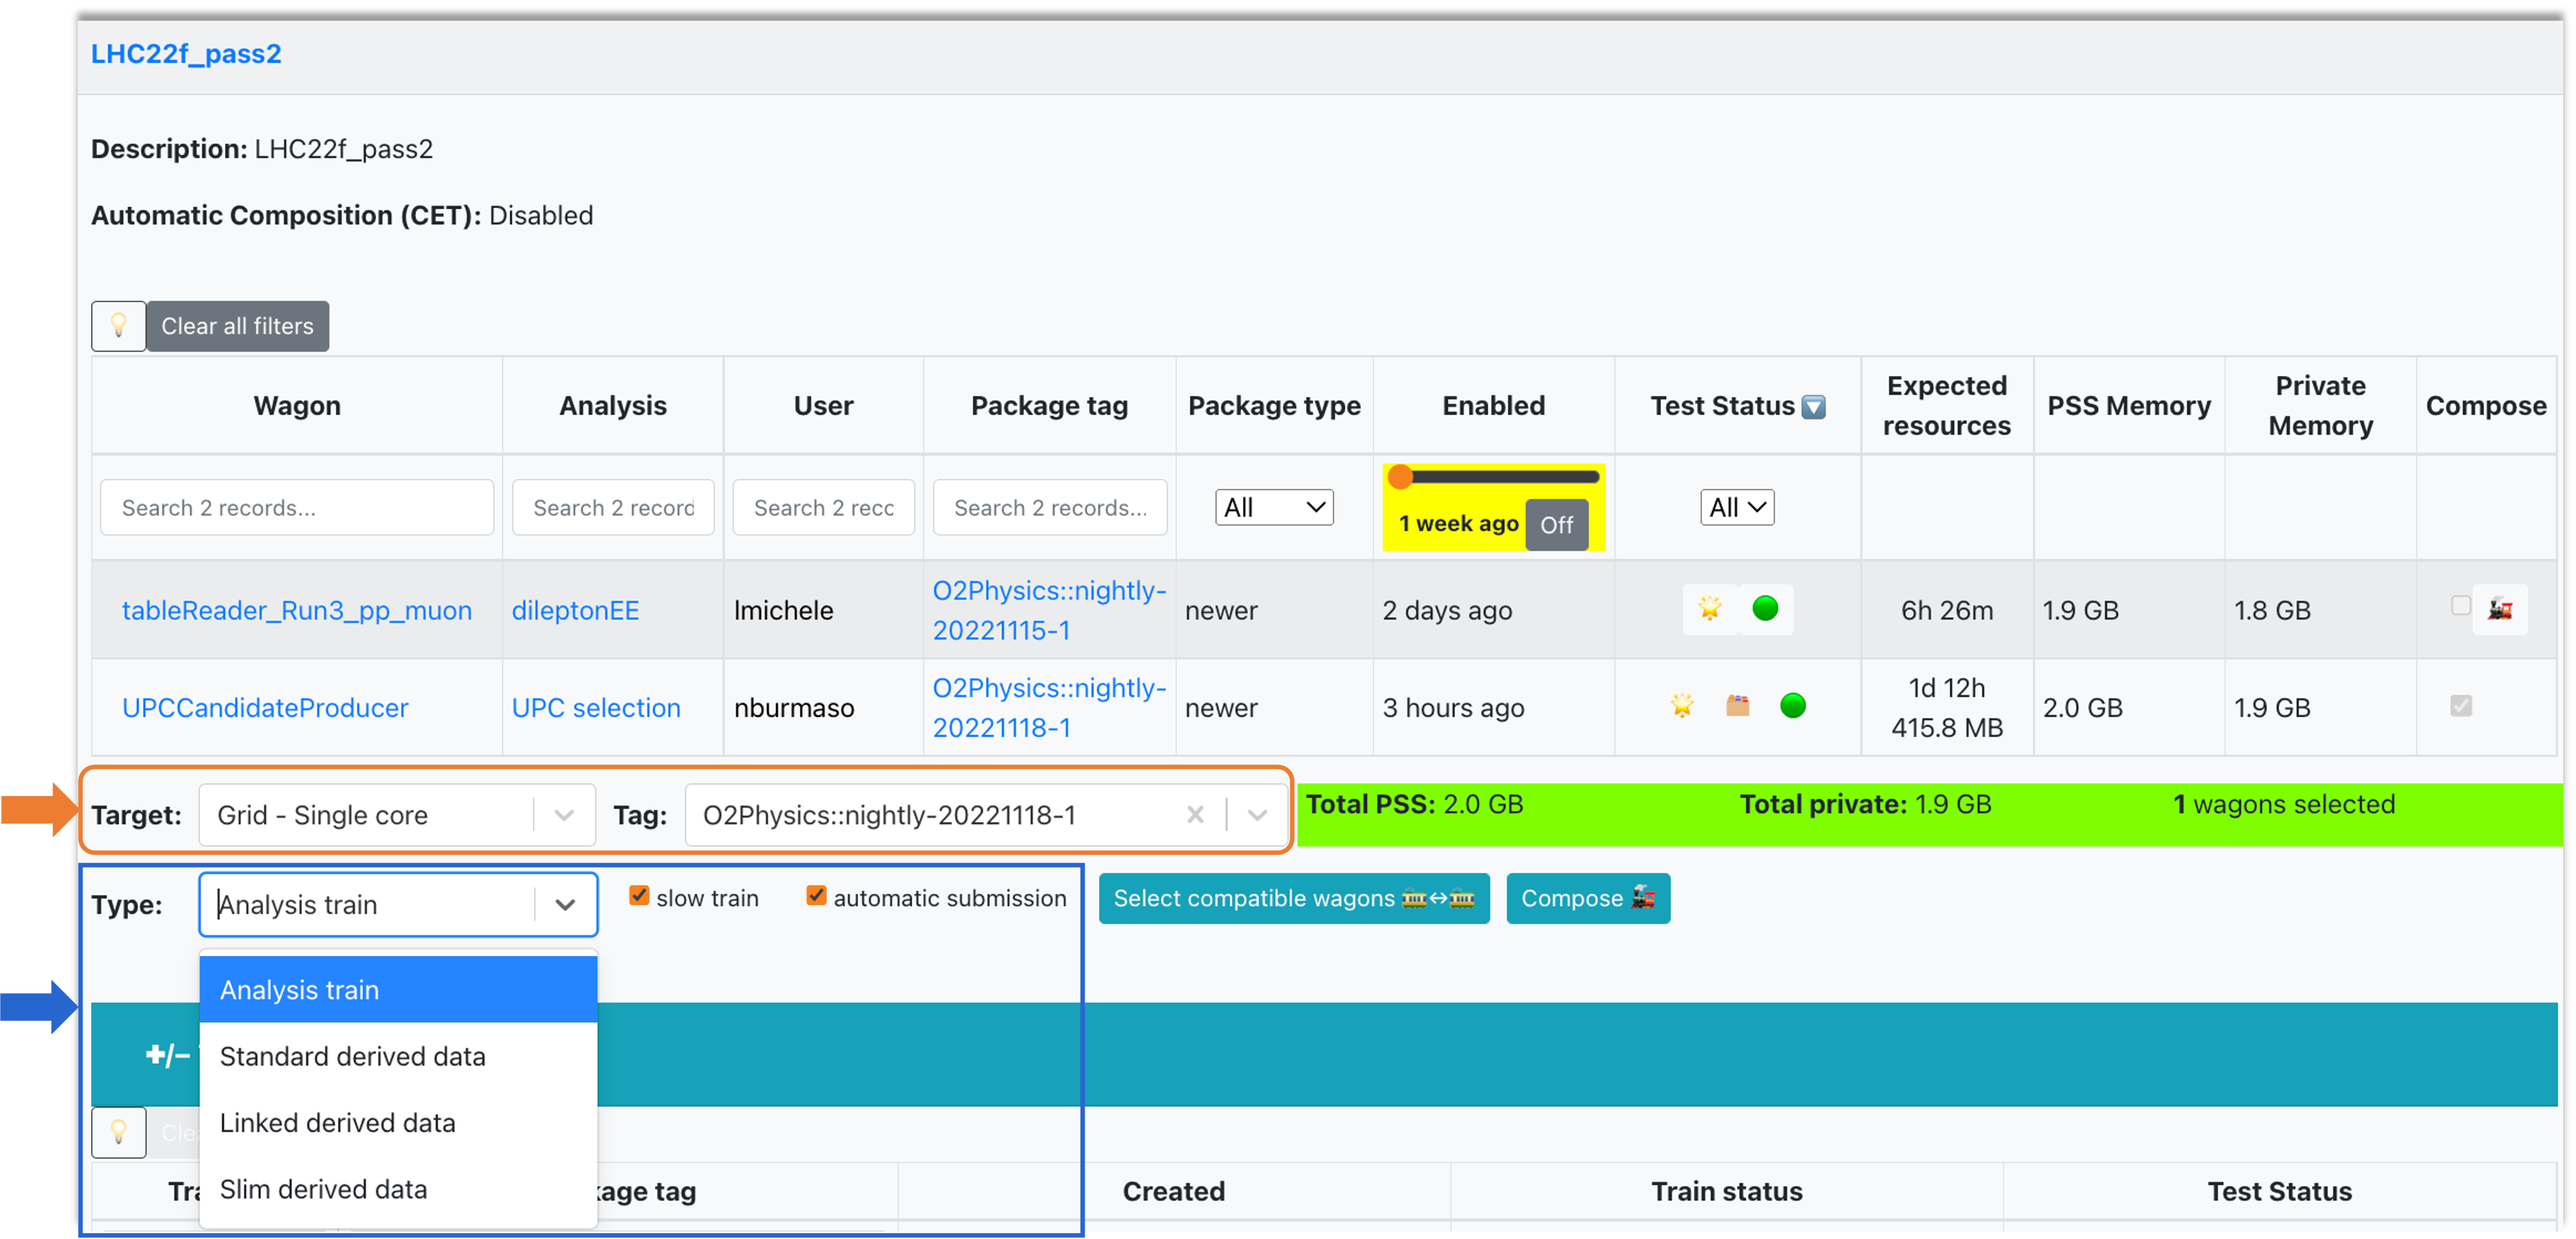
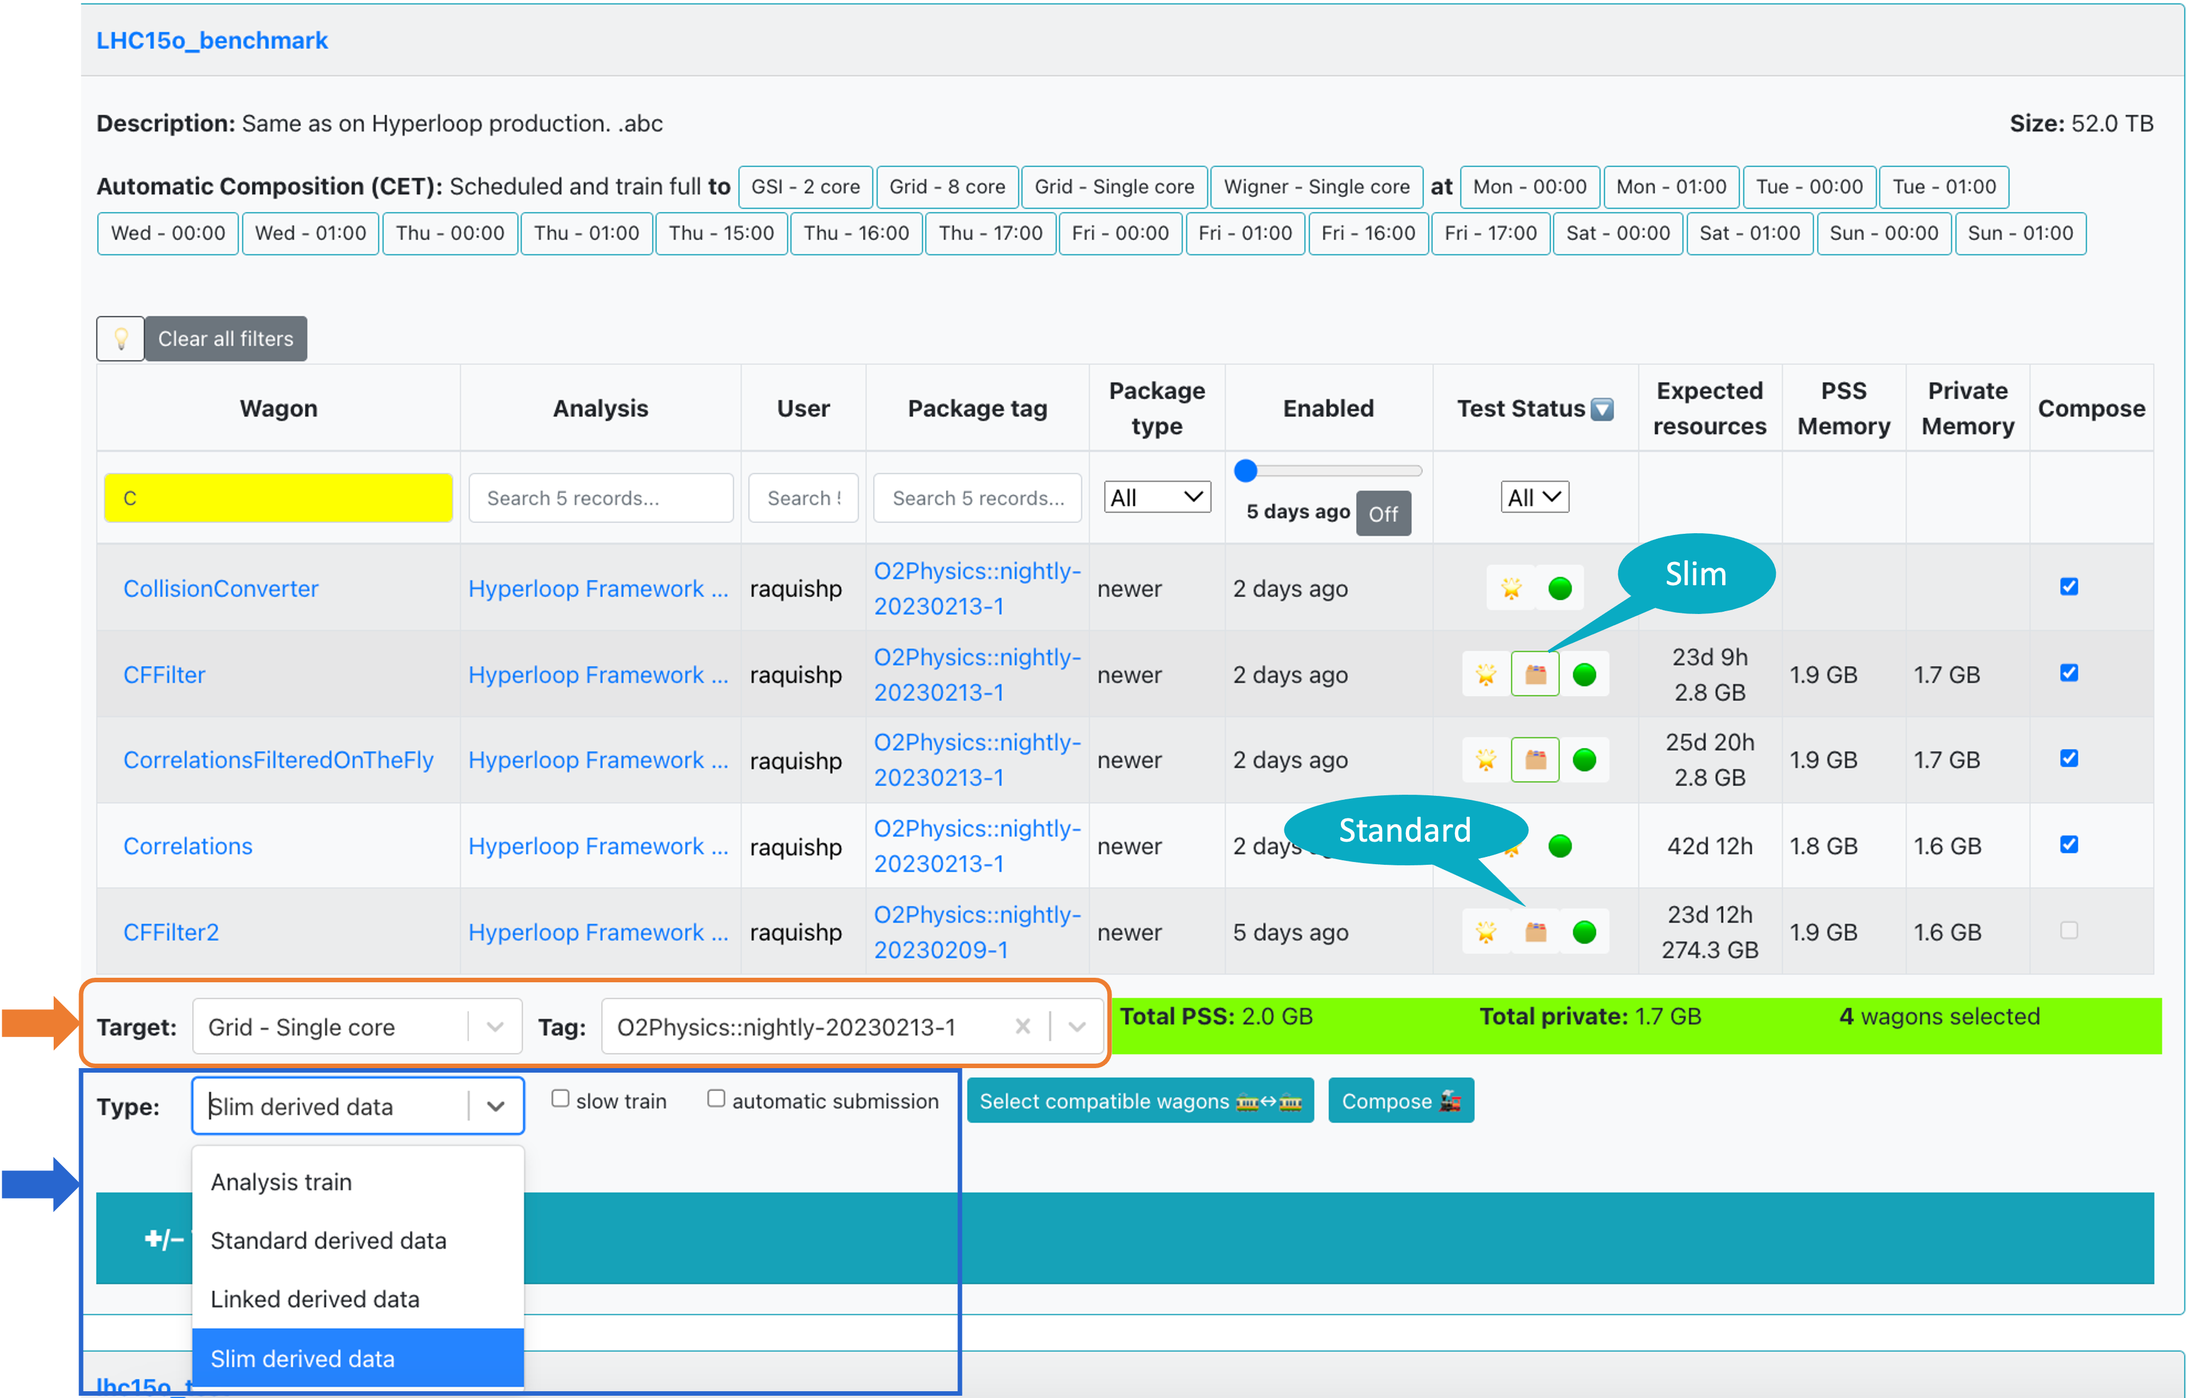
Updates for new derived data types (#207)

diff --git a/docs/hyperloop/operatordocumentation.md b/docs/hyperloop/operatordocumentation.md
@@ -25,7 +25,7 @@ title: Operator Documentation
 * For a user, the <a href="https://alimonitor.cern.ch/hyperloop/train-submission" target="_blank">**Train Submission**</a> page displays a read view only of datasets which have enabled wagons.
 * For a train operator, the  _Train Submission_ page displays only datasets which have enabled wagons, and allows train composition, as well as submitting, modifying and killing a train.
 ### <a name="trainsubmission"></a>Train Composition
-* Trains are composed per dataset. Only wagons which have a test status of success `🌟` or warning `❗` can be composed in a train. If a wagon has _Derived data_ tables activated, it will be signalized with the icon 🗂 in the _Test status_ column.
+* Trains are composed per dataset. Only wagons which have a test status of success `🌟` or warning `❗` can be composed in a train. If a wagon has _Derived data_ tables activated, it will be signalized in the _Test status_ column with the icon 🗂 (standard derived data) or with green bordered 🗂 (slim derived data). The difference between standard and slim derived data will be explained [below](#deriveddatatypes).
 * By default, wagons that were enabled at most one week ago are shown. In order to display all enabled wagons, click on `off` in the _Enabled_ column.
 * In order to compose a train, select wagons by checking `☑` in the _Compose_ column. The Package `Tag` will be automatically chosen, and other wagons that can be included in the train run are signalized with 🟢, and the ones which are not compatible with 🔴. All wagons that are compatible can be automatically chosen by clicking on `✅ Select all compatible wagons`, or by selecting them one by one.
 
@@ -35,18 +35,18 @@ title: Operator Documentation
 &nbsp;
 
 There are a number of settings that you can decide on when composing a train:
-* `Target`: Sets the facility/cores where the train will be run.
-* `Type`: This setting defines the type of train to be composed, and decides if derived data will be stored. The dropdown offers 4 possible options:
-  * **Analysis train** - this will be a standard analysis train and no derived data will be produced.
-  * **Standard derived data** - this train will produce derived data to be used for further analysis. The results will not be merged across runs and can be used as input for future train runs.
-  * **Linked derived data** - this option is for derived data which needs to access its parent file when it is processed. The derived data file produced will remember its parent files, inheriting also their storage location. The results will not be merged across runs and can be used as input for future train runs. Datasets composed from this train need to have parent access level activated.
-  * **Slim derived data** - similarly to the standard derived data case, this train will produce derived data to be used for further analysis. This is reserved for derived data of small output size. The results will be merged across runs and are not available to use in future train runs. The data will be automatically deleted after a preset period of time.
-* `☑ slow train`: If enabled, the express train features are disabled. This means that you may have up to 2% more jobs which finish but the train run may take several days more.
+ * `Target`: Sets the facility/cores where the train will be run.
+ * <a name="deriveddatatypes"></a>`Type`: This setting defines the type of train to be composed, and decides if derived data will be stored. The dropdown offers 4 possible options:
+   * **Analysis train** - this will be a standard analysis train and no derived data will be produced.
+   * **Standard derived data** - this train will produce derived data to be used for further analysis. The results will not be merged across runs and can be used as input for future train runs.
+   * **Linked derived data** - this option is for derived data which needs to access its parent file when it is processed. The derived data file produced will remember its parent files, inheriting also their storage location. The results will not be merged across runs and can be used as input for future train runs. Datasets composed from this train need to have parent access level activated.
+   * **Slim derived data** - similarly to the standard derived data case, this train will produce derived data to be used for further analysis. This is reserved for derived data of small output size. The results will be merged across runs and are not available to use in future train runs. The data will be automatically deleted after a preset period of time.
+ * `☑ slow train`: If enabled, the express train features are disabled. This means that you may have up to 2% more jobs which finish but the train run may take several days more.
 
-* `☑ automatic submission`: If enabled, the train will be automatically submitted after the test is done and succeeds `🌟`.
-* Finally, after defining the configuration, click `Compose 🚂`. After composing a train run, the wagons that are part of it cannot be selected for a different train run unless the current one is [decomposed](#decompose). After the train run is [submitted](#submit), the wagons will be disabled.
+ * `☑ automatic submission`: If enabled, the train will be automatically submitted after the test is done and succeeds `🌟`.
+ * Finally, after defining the configuration, click `Compose 🚂`. After composing a train run, the wagons that are part of it cannot be selected for a different train run unless the current one is [decomposed](#decompose). After the train run is [submitted](#submit), the wagons will be disabled.
 
-* `☑ automatic composition`: The train composition schedule is defined in the dataset settings. If the dataset has a defined schedule, the trains will be automatically composed at the specified times if the tests have finished without a warning and there is no derived data activated.
+ * `☑ automatic composition`: The train composition schedule is defined in the dataset settings. If the dataset has a defined schedule, the trains will be automatically composed at the specified times if the tests have finished without a warning and there is no derived data activated.
 
 <div align="center">
 <img src="../images/automaticComposition.png" width="75%">
@@ -71,7 +71,7 @@ There are a number of settings that you can decide on when composing a train:
 
 ## <a name="train-runs"></a>Train Runs
 
-* For a user, the [**Train Runs**](https://alimonitor.cern.ch/hyperloop/train-runs) page displays a read view only of all train runs available in the system.
+* For a user, the [**Train Runs**](https://alimonitor.cern.ch/hyperloop/train-runs) page displays a read view only of all train runs available in the system. The derived data column shows if a train is an analysis train (empty), standard derived data train (🗂) or slim derived data train (green bordered 🗂). The difference between standard and slim derived data trains is explained [above](#deriveddatatypes).
 * For a train operator, the _Train Runs_ page displays all trains available in the system, and allows submitting, modifying and killing a train.
 * <a name="train-comparison"></a>To compare two trains, select them in the Compare column and click Compare. This will open a new tab displaying the differences between the two trains.
 

diff --git a/docs/hyperloop/userdocumentation.md b/docs/hyperloop/userdocumentation.md
@@ -94,8 +94,17 @@ You can get to the _All Analyses_ page by using the main menu, or by the link in
 
 ## <a name="wagon-derived-data"></a> Derived data 
 
-* <a name="wagonderived"></a>In _Derived Data_ the tables which are produced by the task are displayed. If activated, these are saved to the output if the train is run as a derived data production. The produced derived data can be made available by the operators and serve as input for subsequent trains. Note that derived data train do not submit automatically and may need additional approval. If in doubt, please seek advise before enabling derived data tables in your wagon configuration.
-
+* <a name="wagonderived"></a>In _Derived Data_ the tables which are produced by the task are displayed. If activated, these are saved to the output if the train is run as a derived data production. The produced derived data can be made available by the operators and serve as input for subsequent trains. 
+ 
+### <a name="deriveddatatypes"></a> Derived data types
+* At the moment, there are two types of derived data specifications:
+  * Standard derived data (marked with 🗂)- if the wagon is used in a train, this will produce derived data to be used for further analysis. The results will not be merged across runs and can be used as input for future train runs. Note that standard derived data trains do not submit automatically and may need additional approval. If in doubt, please seek advise before enabling derived data tables in your wagon configuration.
+  * Slim derived data (marked with green bordered 🗂) - similarly to the standard derived data case, if used in a train, this will produce derived data to be used for further analysis. This is reserved for derived data of small output size. The results will be merged across runs and are not available to use in future train runs. The data will be automatically deleted after a preset period of time. You can mark a wagon for running as slim derived data by checking `Ready for slim derived data`.
+ 
+* For wagons set as ready for slim derived data, two more fields need to be correctly set:
+  * Max DF size - This sets the maximal dataframe size in the merging step. Has to be 0 for not-self contained derived data (which need parent file access).
+  * Max derived file size - Sets the size limit for the output file size of the derived data file. This is an expert parameter which usually does not have to be changed. Only change this value if the processing in subsequent trains takes so long that the jobs fail. If set to 0 a good value will be automatically determined.
+ 
 * In order to update the derived data configuration with the latest version of the workflow, click on the button `↻ sync` in _Derived data_. By synchronizing the derived data, the tables which no longer belong to the workflow will be removed, and the values of the tables will be updated.
 
 <div align="center">
@@ -268,7 +277,7 @@ When creating or enabling wagons, you can use a pull request instead of a packag
 
 ## <a name="train-runs"></a>Train Runs
 
-* For a user, the [**Train Runs**](https://alimonitor.cern.ch/hyperloop/train-runs) page displays a read view only of all train runs available in the system.
+* For a user, the [**Train Runs**](https://alimonitor.cern.ch/hyperloop/train-runs) page displays a read view only of all train runs available in the system. The derived data column shows if a train is an analysis train (empty), standard derived data train (🗂) or slim derived data train (green bordered 🗂). The difference between standard and slim derived data trains is explained [above](#deriveddatatypes).
 
 * <a name="train-comparison"></a>To compare two trains, select them in the Compare column and click Compare. This will open a new tab displaying the differences between the two trains.
 
